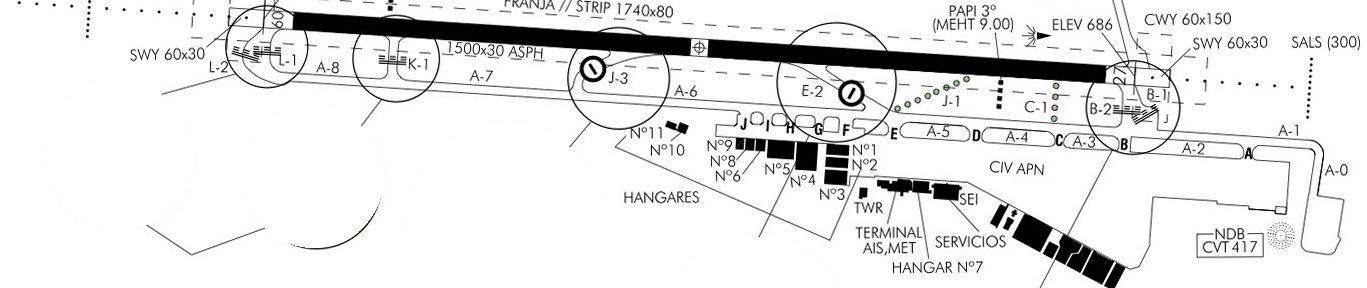
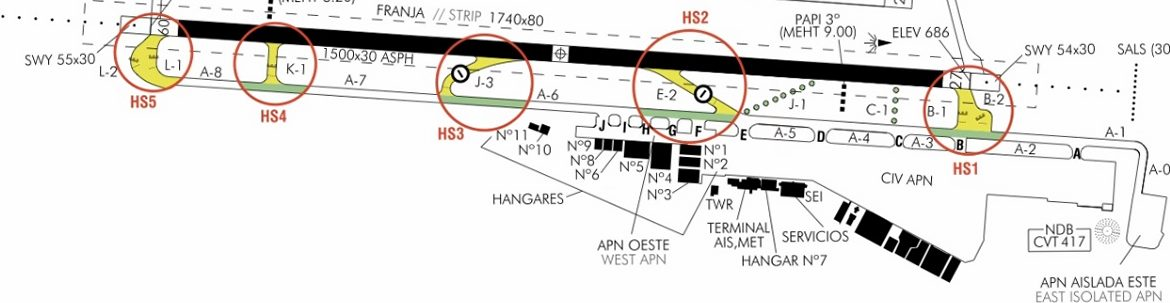
OPS: carta AIP vigente (con puntos críticos HS1-HS5) georreferenciada en lugar de la de 2015
Claude-Session: https://claude.ai/code/session_019RNePyopSai5Pfc6wFC9Tn

diff --git a/ops.js b/ops.js
@@ -171,7 +171,7 @@ function infer(list){
 
 /* ---------- mapa ---------- */
 const PLANE='<svg viewBox="0 0 20 20" width="26" height="26" style="transform:rotate({r}deg)"><path d="M10 1c.9 0 1.4.9 1.4 2v4.6l7 4.2v1.8l-7-2v3.6l1.8 1.4V19L10 18l-3.2 1v-2.4l1.8-1.4v-3.6l-7 2v-1.8l7-4.2V3C8.6 1.9 9.1 1 10 1z" fill="#FFC400" stroke="#14181D" stroke-width="1.1"/></svg>';
-const CHART={url:"ops-lecu-adc.jpg",b:[[40.36671420,-3.80024328],[40.37145459,-3.77071018]]};
+const CHART={url:"ops-lecu-adc.jpg",b:[[40.36659176,-3.79715401],[40.37154104,-3.77206957]]};
 function setMode(m){
   S.mode=m; const M=S.map, R=S.root; if(!M) return;
   if(S.tile){ if(m==="aip"){ if(M.hasLayer(S.tile)) M.removeLayer(S.tile); } else if(!M.hasLayer(S.tile)) S.tile.addTo(M); }
@@ -490,7 +490,7 @@ function render(el,opt){
      <div class="wh"><b>METAR</b><label class="sw"><input type="checkbox" id="opRawT" checked><i></i>raw mode</label></div><div class="wl" id="opMet"></div>
      <div class="wh"><b>TAF</b><span class="hz">hora Z</span></div><div class="wl" id="opTaf"></div></div></section>
     <div class="op-hero">
-     <section class="pn op-map"><h2>Cuatro Vientos <small id="opTrSt">tráfico ADS-B…</small></h2><div id="opMap"></div><p class="src mapnote" id="opMapNote">Carta AIP de aeródromo (copia de 2015, solo la parte civil): puede estar desactualizada. Vigente: <a target="_blank" rel="noopener" href="https://aip.enaire.es/AIP/#LECU/LEVS">Cartas AIP ↗</a></p></section>
+     <section class="pn op-map"><h2>Cuatro Vientos <small id="opTrSt">tráfico ADS-B…</small></h2><div id="opMap"></div><p class="src mapnote" id="opMapNote">Carta de aeródromo del AIP (parte civil) · © ENAIRE. Comprueba siempre la vigente en <a target="_blank" rel="noopener" href="https://aip.enaire.es/AIP/#LECU/LEVS">Cartas AIP ↗</a></p></section>
      <aside class="op-side">
       <section class="pn"><h2>Pista en uso</h2><div class="bd"><div class="rwy" id="opRwy"></div><p class="src">La pista real la fija la torre o el ATIS (118.230). Aquí se deduce del tráfico ADS-B y, si no hay, del viento. AD civil: 08:00 Z–ocaso (invierno), 07:00 Z–ocaso (verano). Cerrado el primer domingo de mes (salvo enero y agosto).</p></div></section>
      </aside>

diff --git a/index.html b/index.html
@@ -17,7 +17,7 @@
 <meta name="apple-mobile-web-app-title" content="Fase 0">
 <style>:root{box-sizing:border-box;padding-top:env(safe-area-inset-top,0px);padding-bottom:env(safe-area-inset-bottom,0px)}body{margin:0}img{max-width:100%}[hidden]{display:none!important}</style>
 <script>if("serviceWorker" in navigator&&location.protocol==="https:")addEventListener("load",function(){navigator.serviceWorker.register("sw.js").catch(function(){});});</script>
-<script>window.F0_BUILD="b9c827e6a42d";</script>
+<script>window.F0_BUILD="45838f7d5d73";</script>
 <script src="autoupdate.js"></script>
 <script src="vendor/supabase.js"></script>
 <script src="config.js"></script>
